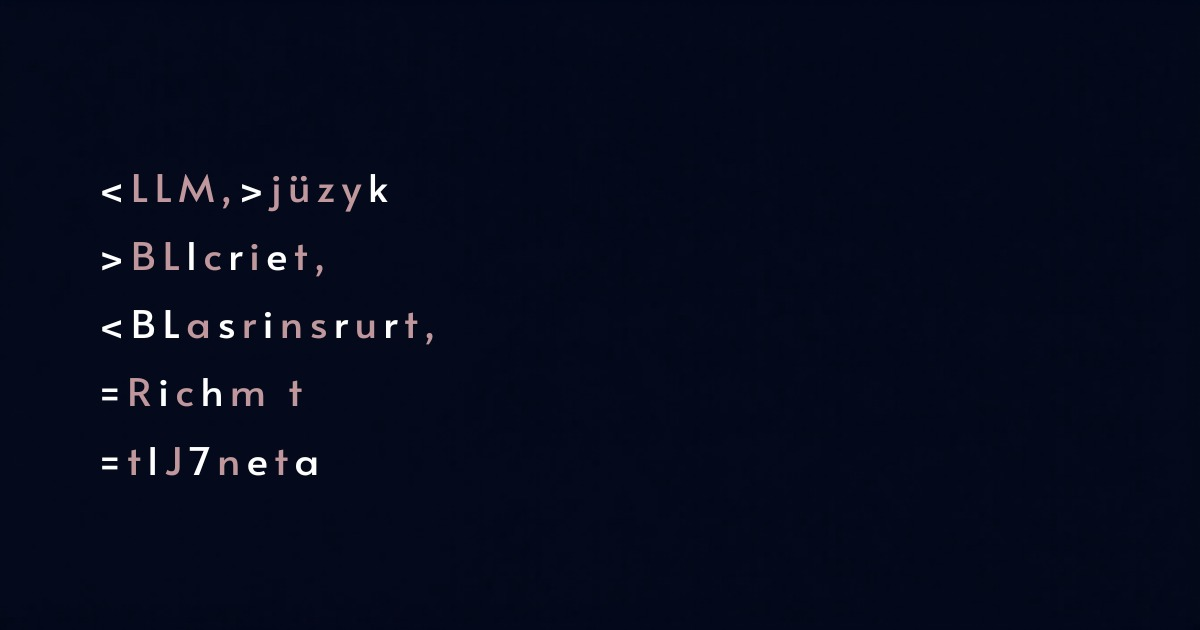
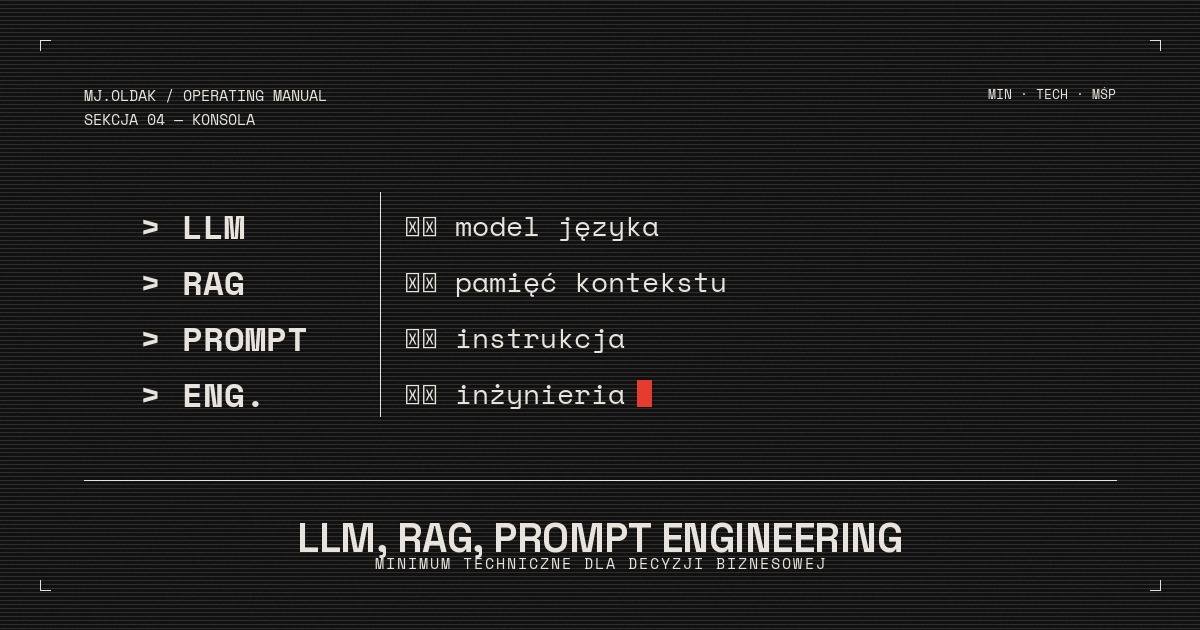
fix(articles): publishedAt 11.05 → 09.05 (publish today) + LLM RAG cover legacy
Listing /artykuly/ był pusty bo wszystkie artykuły hide-future
(publishedAt > now). Zmiana 11.05 → 09.05 (today, sobota) → publish
od razu, klikalne karty home → working article pages.

Plus LLM RAG Canva cover miał uszkodzoną polską literę 'jüzyk'
(zamiast 'język') — Canva render błąd diakrytyki. Swap na Operating
Manual cover z 7.05 (PIL-generated, terminal-style, dobrze pasuje
do LLM/RAG/code feel).

Changed region(s): [[0.0, 0.0, 1.0, 1.0]]

diff --git a/mj-oldak/src/content/articles/ai-act-2026-biuro-rachunkowe-compliance.md b/mj-oldak/src/content/articles/ai-act-2026-biuro-rachunkowe-compliance.md
@@ -2,7 +2,7 @@
 title: "AI Act 2026 — co polskie biura rachunkowe muszą wiedzieć"
 slug: "ai-act-2026-biuro-rachunkowe-compliance"
 excerpt: "AI Act od 2 sierpnia 2026 — pełne stosowanie. Klasyfikacja ryzyka biur rachunkowych, 18-pozycyjny compliance checklist, obowiązki przy używaniu Claude/GPT API, kary do 35M EUR."
-publishedAt: 2026-05-11
+publishedAt: 2026-05-09
 author: "Marcin Ołdak"
 category: "edukacja"
 tags: ["ai-act", "compliance", "biuro-rachunkowe"]

diff --git a/mj-oldak/src/content/articles/ai-dla-biur-rachunkowych-2026.md b/mj-oldak/src/content/articles/ai-dla-biur-rachunkowych-2026.md
@@ -2,7 +2,7 @@
 title: "AI dla biur rachunkowych w 2026 — przewodnik krok po kroku"
 slug: "ai-dla-biur-rachunkowych-2026"
 excerpt: "Comprehensive guide AI dla polskich biur rachunkowych: stan rynku 2026, mapa zastosowań, ROI w liczbach, framework 4-tygodniowego pilota, AI Act compliance, common pitfalls."
-publishedAt: 2026-05-11
+publishedAt: 2026-05-09
 author: "Marcin Ołdak"
 category: "edukacja"
 tags: ["biuro-rachunkowe", "automatyzacja", "compliance"]

diff --git a/mj-oldak/src/content/articles/czym-jest-agent-ai-dla-ksiegowego.md b/mj-oldak/src/content/articles/czym-jest-agent-ai-dla-ksiegowego.md
@@ -2,7 +2,7 @@
 title: "Czym jest agent AI? Praktyczne wyjaśnienie dla księgowego"
 slug: "czym-jest-agent-ai-dla-ksiegowego"
 excerpt: "Agent AI vs chatbot vs RPA — czym się różnią. 5 konkretnych zastosowań w biurze rachunkowym (OCR, email, deadliny, raporty, KSeF). Co potrafi, co NIE potrafi. Bez hype'u."
-publishedAt: 2026-05-11
+publishedAt: 2026-05-09
 author: "Marcin Ołdak"
 category: "edukacja"
 tags: ["automatyzacja", "biuro-rachunkowe", "tutorial"]

diff --git a/mj-oldak/src/content/articles/llm-rag-prompt-engineering-msp.md b/mj-oldak/src/content/articles/llm-rag-prompt-engineering-msp.md
@@ -2,7 +2,7 @@
 title: "LLM, RAG, prompt engineering — minimum techniczne dla decyzji biznesowej"
 slug: "llm-rag-prompt-engineering-msp"
 excerpt: "LLM (Claude, GPT, Gemini), RAG vs fine-tuning, koszty API 2026, lokalne open-source modele na Ollamie/OVH, 5 zasad prompt engineering dla polskich treści. Bez żargonu."
-publishedAt: 2026-05-11
+publishedAt: 2026-05-09
 author: "Marcin Ołdak"
 category: "edukacja"
 tags: ["automatyzacja", "tutorial", "biuro-rachunkowe"]